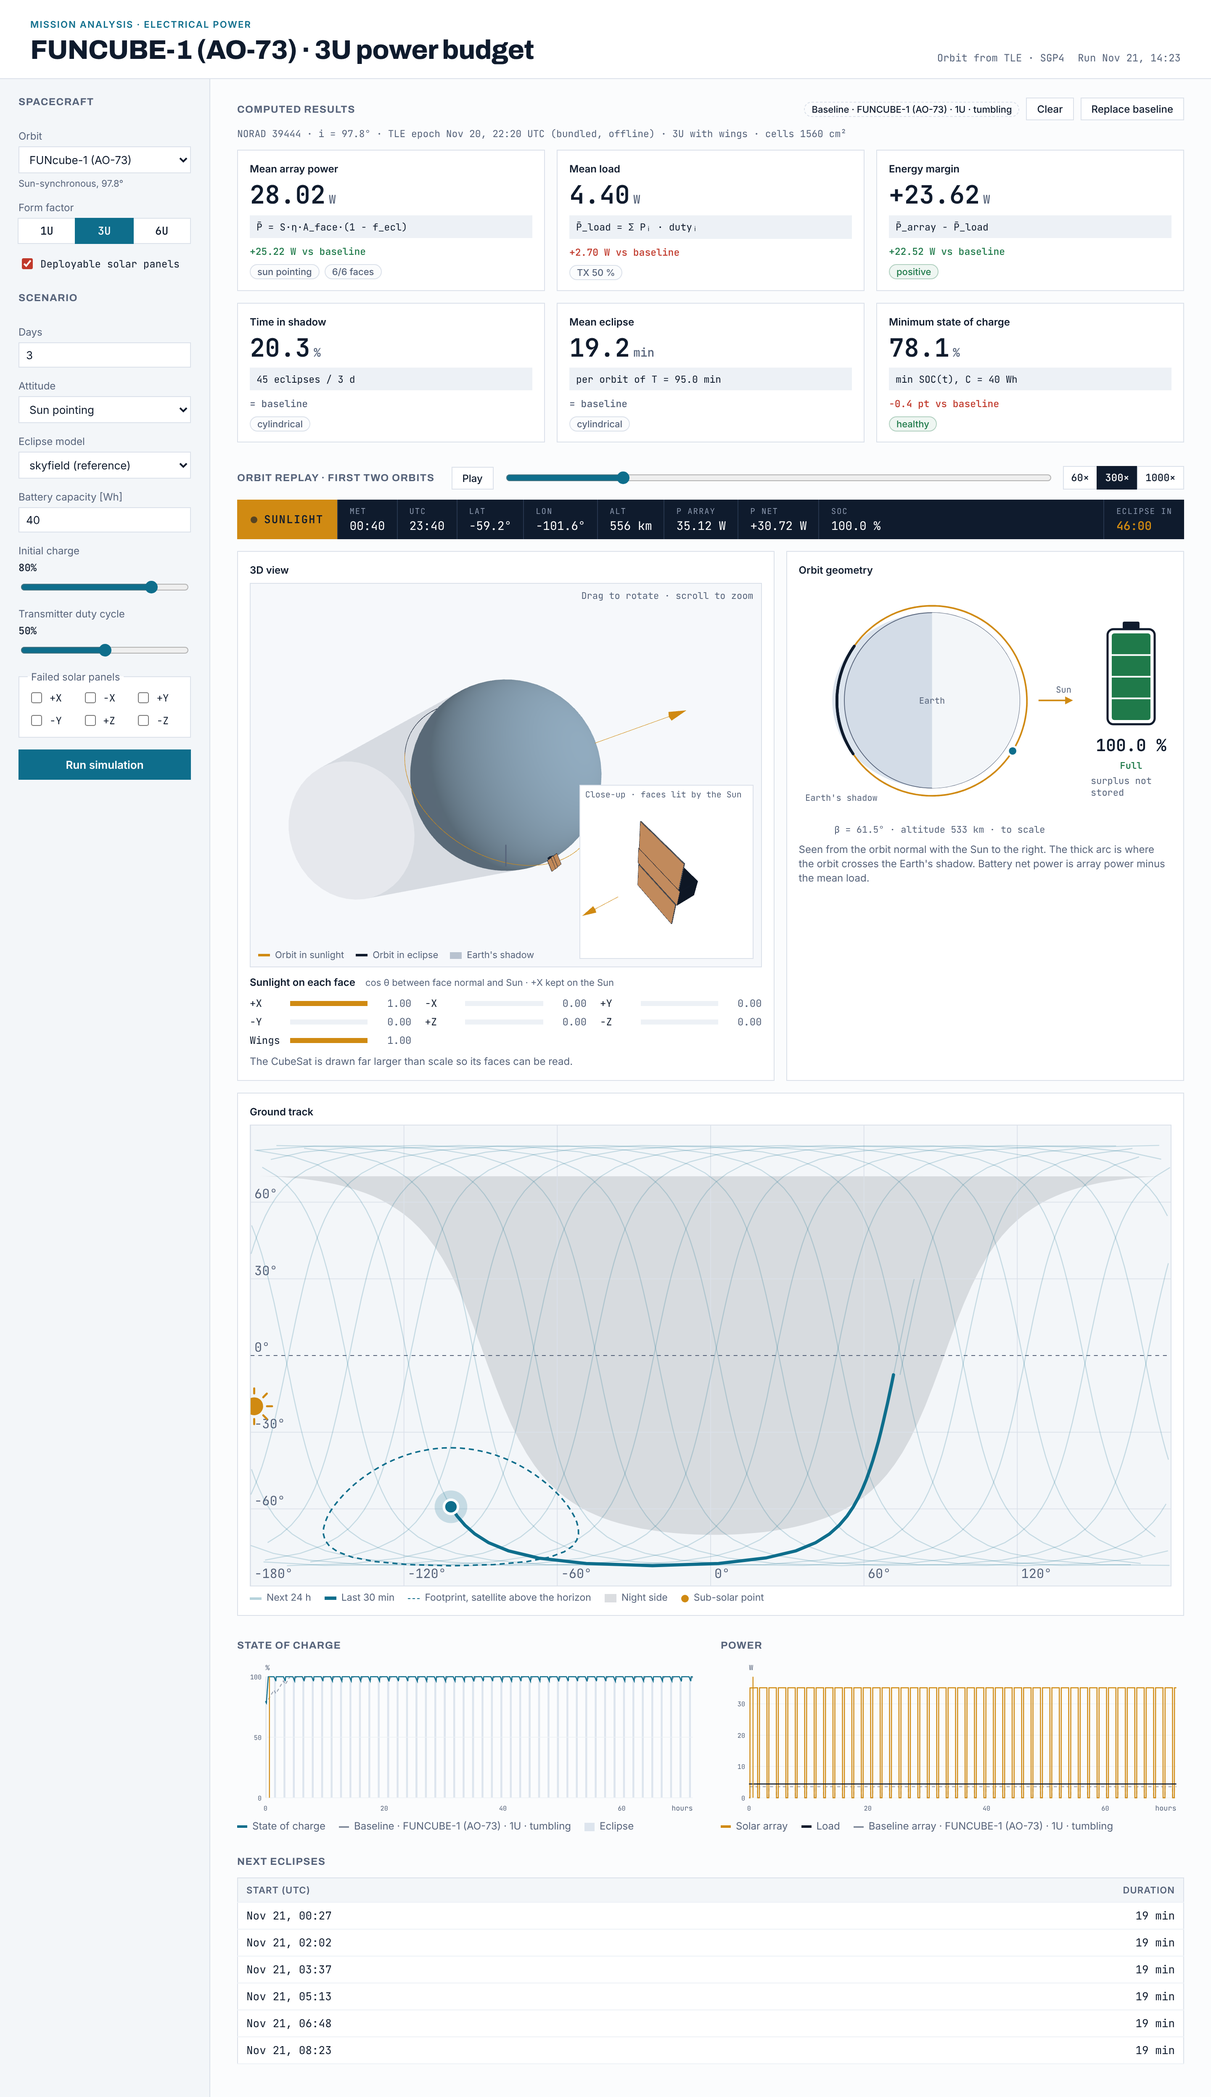
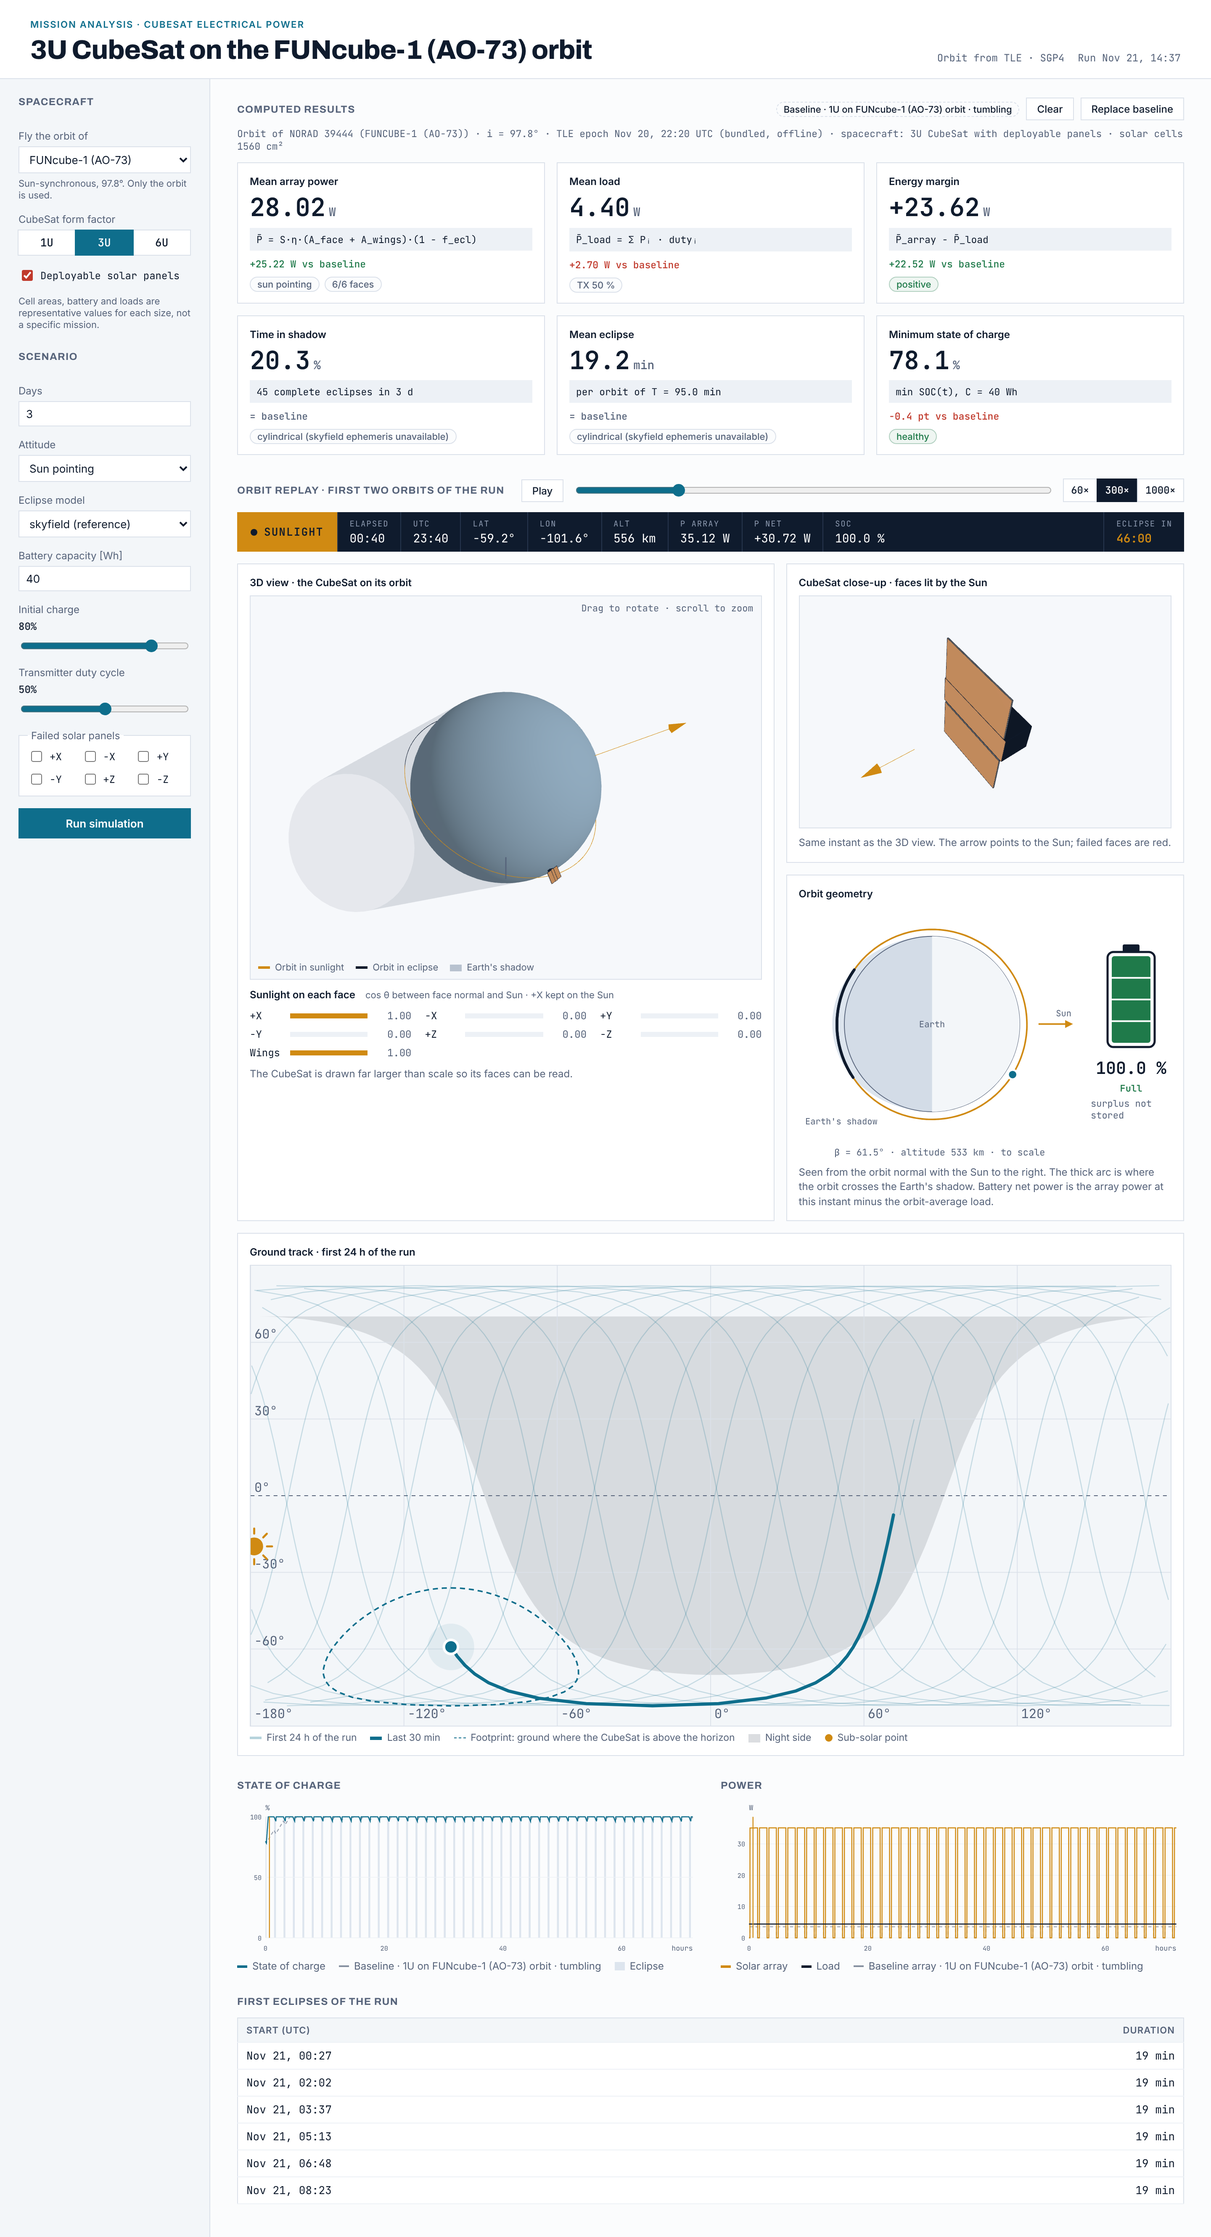
Clarify labels and give the CubeSat close-up its own panel (#4)
- Title and labels say what is simulated: a CubeSat flying another object's orbit
- Orbit selector reads 'Fly the orbit of'; custom NORAD hint says only the orbit is used
- Form factors marked as representative values
- 'Elapsed' instead of MET (time since run start, not launch)
- Eclipse model chip shows the cylindrical fallback when skyfield is unavailable
- Power formula includes deployable panels; 'complete eclipses' wording
- Close-up of the lit faces moved from the 3D inset to its own panel above orbit geometry

Claude-Session: https://claude.ai/code/session_017xRGYicgZqfD2FuY3kmVif

diff --git a/web/src/app/app.html b/web/src/app/app.html
@@ -1,7 +1,7 @@
 <header class="top">
   <div>
-    <p class="eyebrow">Mission analysis · electrical power</p>
-    <h1>{{ result()?.summary?.satellite || 'FUNCUBE-1 (AO-73)' }} · {{ ran()?.form_factor || '1U' }} power budget</h1>
+    <p class="eyebrow">Mission analysis · CubeSat electrical power</p>
+    <h1>{{ title() }}</h1>
   </div>
   <p class="meta">
     <span>Orbit from TLE · SGP4</span>
@@ -13,7 +13,7 @@
   <form class="side" (ngSubmit)="run()">
     <h2>Spacecraft</h2>
 
-    <label for="orbit">Orbit
+    <label for="orbit">Fly the orbit of
       <select id="orbit" name="orbit" [ngModel]="orbitMode() === 'custom' ? 'custom' : '' + request.norad"
               (ngModelChange)="setOrbit($event)">
         @for (s of catalog()?.satellites ?? [{ norad: 39444, name: 'FUNcube-1 (AO-73)', orbit: '' }]; track s.norad) {
@@ -23,19 +23,19 @@
       </select>
       @if (orbitMode() === 'preset') {
         @for (s of catalog()?.satellites ?? []; track s.norad) {
-          @if (s.norad === request.norad) { <span class="hint">{{ s.orbit }}</span> }
+          @if (s.norad === request.norad) { <span class="hint">{{ s.orbit }}. Only the orbit is used.</span> }
         }
       }
     </label>
     @if (orbitMode() === 'custom') {
       <label for="norad">NORAD catalog number
         <input id="norad" type="number" name="norad" min="1" max="999999" [(ngModel)]="request.norad" />
-        <span class="hint">The TLE is downloaded from CelesTrak.</span>
+        <span class="hint">Only this object's orbit (TLE from CelesTrak) is used; the spacecraft is still the CubeSat below.</span>
       </label>
     }
 
     <div class="field">
-      <span class="lbl">Form factor</span>
+      <span class="lbl">CubeSat form factor</span>
       <div class="seg" role="group" aria-label="Form factor">
         @for (ff of formFactors; track ff) {
           <button type="button" [attr.aria-pressed]="request.form_factor === ff" (click)="setFormFactor(ff)">{{ ff }}</button>
@@ -46,6 +46,7 @@
       <input id="deploy" type="checkbox" name="deploy" [(ngModel)]="request.deployables" />
       Deployable solar panels
     </label>
+    <span class="hint">Cell areas, battery and loads are representative values for each size, not a specific mission.</span>
 
     <h2 class="sub">Scenario</h2>
 
@@ -106,9 +107,9 @@
         </div>
         @if (r.spacecraft; as sc) {
           <p class="sc-line">
-            NORAD {{ sc.norad }} · i = {{ sc.inclination_deg.toFixed(1) }}° · TLE epoch {{ sc.tle_epoch | date: 'MMM d, HH:mm' : 'UTC' }} UTC
+            Orbit of NORAD {{ sc.norad }} ({{ r.summary.satellite }}) · i = {{ sc.inclination_deg.toFixed(1) }}° · TLE epoch {{ sc.tle_epoch | date: 'MMM d, HH:mm' : 'UTC' }} UTC
             ({{ sc.tle_source === 'celestrak' ? 'downloaded from CelesTrak' : sc.tle_source === 'cache' ? 'cached' : 'bundled, offline' }})
-            · {{ sc.form_factor }}{{ sc.deployables ? ' with wings' : '' }} · cells {{ (sc.cell_area_m2 * 1e4).toFixed(0) }} cm²
+            · spacecraft: {{ sc.form_factor }} CubeSat{{ sc.deployables ? ' with deployable panels' : '' }} · solar cells {{ (sc.cell_area_m2 * 1e4).toFixed(0) }} cm²
           </p>
         }
         <div class="cards">
@@ -132,7 +133,7 @@
 
       <section>
         <div class="replay-head">
-          <h2>Orbit replay · first two orbits</h2>
+          <h2>Orbit replay · first two orbits of the run</h2>
           @if (now(); as n) {
             <div class="player">
               <button type="button" class="ghost" (click)="playback.playing.set(!playback.playing())">
@@ -153,7 +154,7 @@
           <div class="telemetry" [class.ecl]="!n.lit" aria-live="off">
             <div class="mode"><span class="dot"></span>{{ n.lit ? 'SUNLIGHT' : 'ECLIPSE' }}</div>
             <dl>
-              <div><dt>MET</dt><dd>{{ n.met }}</dd></div>
+              <div><dt>Elapsed</dt><dd>{{ n.elapsed }}</dd></div>
               <div><dt>UTC</dt><dd>{{ n.utc }}</dd></div>
               <div><dt>Lat</dt><dd>{{ n.lat.toFixed(1) }}°</dd></div>
               <div><dt>Lon</dt><dd>{{ n.lon.toFixed(1) }}°</dd></div>
@@ -168,25 +169,32 @@
 
         <div class="replay">
           <div class="pane">
-            <h3>3D view</h3>
-            <app-orbit-view [result]="r" [failedFaces]="ran()?.failed_faces ?? []" [attitude]="ran()?.attitude ?? 'tumbling'" />
+            <h3>3D view · the CubeSat on its orbit</h3>
+            <app-orbit-view [closeupCanvas]="closeup" [result]="r" [failedFaces]="ran()?.failed_faces ?? []" [attitude]="ran()?.attitude ?? 'tumbling'" />
             <p class="cap">The CubeSat is drawn far larger than scale so its faces can be read.</p>
           </div>
-          <div class="pane">
-            <h3>Orbit geometry</h3>
-            <div class="geo">
-              <app-orbit-plane [result]="r" />
-              @if (now(); as n) {
-                <app-battery-gauge [soc]="n.soc" [net]="n.net" />
-              }
+          <div class="col">
+            <div class="pane">
+              <h3>CubeSat close-up · faces lit by the Sun</h3>
+              <canvas #closeup class="closeup" aria-label="Close-up of the CubeSat; faces facing the Sun glow"></canvas>
+              <p class="cap">Same instant as the 3D view. The arrow points to the Sun; failed faces are red.</p>
             </div>
-            <p class="cap">
-              Seen from the orbit normal with the Sun to the right. The thick arc is where the orbit crosses the
-              Earth's shadow. Battery net power is array power minus the mean load.
-            </p>
+            <div class="pane">
+              <h3>Orbit geometry</h3>
+              <div class="geo">
+                <app-orbit-plane [result]="r" />
+                @if (now(); as n) {
+                  <app-battery-gauge [soc]="n.soc" [net]="n.net" />
+                }
+              </div>
+              <p class="cap">
+                Seen from the orbit normal with the Sun to the right. The thick arc is where the orbit crosses the
+                Earth's shadow. Battery net power is the array power at this instant minus the orbit-average load.
+              </p>
+            </div>
           </div>
           <div class="pane wide">
-            <h3>Ground track</h3>
+            <h3>Ground track · first 24 h of the run</h3>
             <app-ground-track [lat]="r.ground_track.lat" [lon]="r.ground_track.lon" [live]="live()" />
           </div>
         </div>
@@ -204,7 +212,7 @@
       </section>
 
       <section>
-        <h2>Next eclipses</h2>
+        <h2>First eclipses of the run</h2>
         <table>
           <thead><tr><th>Start (UTC)</th><th class="num">Duration</th></tr></thead>
           <tbody>

diff --git a/web/src/app/orbit-view.ts b/web/src/app/orbit-view.ts
@@ -44,11 +44,10 @@ function cssColor(name: string, fallback: string): THREE.Color {
         <span><i class="cyl"></i>Earth's shadow</span>
       </div>
       <span class="hint-3d">Drag to rotate · scroll to zoom</span>
-      <div class="inset-frame" aria-hidden="true"><span>Close-up · faces lit by the Sun</span></div>
     </div>
     <div class="faces-head">
       <h3>Sunlight on each face</h3>
-      <span>cos θ between face normal and Sun · {{ attitude() === 'sun_pointing' ? '+X kept on the Sun' : 'tumbling, illustrative attitude' }}</span>
+      <span>cos θ between face normal and Sun · {{ attitude() === 'sun_pointing' ? '+X kept on the Sun' : 'tumbling: this rotation is illustrative, the power model uses the average (A/4)' }}</span>
     </div>
     <ul class="faces">
       @for (f of faceRows(); track f.face) {
@@ -77,8 +76,6 @@ function cssColor(name: string, fallback: string): THREE.Color {
     .legend .shade { background: var(--text); }
     .legend .cyl { background: var(--shade-3d); height: 8px; }
     .hint-3d { position: absolute; right: 10px; top: 8px; font: 11px var(--f-data); color: var(--muted); }
-    .inset-frame { position: absolute; right: 10px; bottom: 10px; width: 34%; aspect-ratio: 1; border: 1px solid var(--border); pointer-events: none; }
-    .inset-frame span { position: absolute; left: 6px; top: 4px; font: 10px var(--f-data); color: var(--muted); }
     .faces-head { display: flex; flex-wrap: wrap; gap: 2px 12px; align-items: baseline; }
     h3 { margin: 0; font-size: 12px; font-weight: 600; }
     .faces-head span { font-size: 11px; color: var(--muted); }
@@ -95,6 +92,8 @@ export class OrbitView implements AfterViewInit, OnDestroy {
   readonly result = input.required<SimulationResult>();
   readonly failedFaces = input<Face[]>([]);
   readonly attitude = input<'tumbling' | 'sun_pointing'>('tumbling');
+  /** Canvas elsewhere on the page where the close-up of the CubeSat is drawn. */
+  readonly closeupCanvas = input<HTMLCanvasElement | null>(null);
 
   private readonly canvas = viewChild.required<ElementRef<HTMLCanvasElement>>('canvas');
 
@@ -150,7 +149,8 @@ export class OrbitView implements AfterViewInit, OnDestroy {
   private readonly cubeMaterials = FACES.map(() => new THREE.MeshStandardMaterial({ roughness: 0.6 }));
   private readonly wingMaterial = new THREE.MeshStandardMaterial({ roughness: 0.5 });
 
-  // Close-up inset: the same spacecraft in its own scene, camera fixed near the Sun line.
+  // Close-up: the same spacecraft in its own scene and renderer, camera fixed near the Sun line.
+  private closeRenderer?: THREE.WebGLRenderer;
   private readonly insetScene = new THREE.Scene();
   private readonly insetCamera = new THREE.PerspectiveCamera(32, 1, 0.01, 20);
   private readonly insetSat = new THREE.Group();
@@ -209,6 +209,7 @@ export class OrbitView implements AfterViewInit, OnDestroy {
     window.removeEventListener('resize', this.resize);
     this.controls?.dispose();
     this.renderer?.dispose();
+    this.closeRenderer?.dispose();
   }
 
   private readonly resize = () => {
@@ -224,20 +225,21 @@ export class OrbitView implements AfterViewInit, OnDestroy {
     this.controls?.update();
     const r = this.renderer;
     if (!r) return;
-    const c = this.canvas().nativeElement;
-    r.setViewport(0, 0, c.clientWidth, c.clientHeight);
     r.render(this.scene, this.camera);
 
-    // Inset in the bottom-right corner (viewport origin is bottom-left).
-    const size = Math.round(c.clientWidth * 0.34);
-    r.setScissorTest(true);
-    r.setScissor(c.clientWidth - size - 10, 10, size, size);
-    r.setViewport(c.clientWidth - size - 10, 10, size, size);
-    r.setClearColor(0xffffff, 1);
-    r.clear();
-    r.render(this.insetScene, this.insetCamera);
-    r.setScissorTest(false);
-    r.setClearColor(0x000000, 0);
+    const cc = this.closeupCanvas();
+    if (cc && !this.closeRenderer) {
+      this.closeRenderer = new THREE.WebGLRenderer({ canvas: cc, antialias: true, alpha: true });
+      this.closeRenderer.setPixelRatio(Math.min(window.devicePixelRatio, 2));
+    }
+    if (cc && this.closeRenderer) {
+      if (cc.width !== Math.round(cc.clientWidth * this.closeRenderer.getPixelRatio())) {
+        this.closeRenderer.setSize(cc.clientWidth, cc.clientHeight, false);
+        this.insetCamera.aspect = cc.clientWidth / cc.clientHeight;
+        this.insetCamera.updateProjectionMatrix();
+      }
+      this.closeRenderer.render(this.insetScene, this.insetCamera);
+    }
   };
 
   /** Sun light, shadow cylinder and orbit line: they depend on the result only. */
@@ -254,7 +256,7 @@ export class OrbitView implements AfterViewInit, OnDestroy {
     const camDir = sun.clone().multiplyScalar(Math.cos(55 * Math.PI / 180))
       .add(perp.multiplyScalar(Math.sin(55 * Math.PI / 180)))
       .add(new THREE.Vector3(0, 0.35, 0)).normalize();
-    this.insetCamera.position.copy(camDir.multiplyScalar(4.6));
+    this.insetCamera.position.copy(camDir.multiplyScalar(4.2));
     this.insetCamera.lookAt(0, 0, 0);
     this.insetSunArrow.clear();
     this.insetSunArrow.add(new THREE.ArrowHelper(sun, sun.clone().multiplyScalar(0.85), 0.55, cssColor('--sun', '#d08a12').getHex(), 0.18, 0.1));

diff --git a/web/src/app/app.ts b/web/src/app/app.ts
@@ -91,7 +91,9 @@ export class App {
     const cards: ResultCard[] = [
       {
         label: 'Mean array power', value: s.mean_power_w.toFixed(2), unit: 'W',
-        formula: q.attitude === 'tumbling' ? 'P̄ = S·η·(A/4)·(1 − f_ecl)' : 'P̄ = S·η·A_face·(1 − f_ecl)',
+        formula: q.attitude === 'tumbling'
+          ? `P̄ = S·η·(A${q.deployables ? ' + A_wings' : ''})/4·(1 − f_ecl)`
+          : `P̄ = S·η·(A_face${q.deployables ? ' + A_wings' : ''})·(1 − f_ecl)`,
         chips: [{ text: q.attitude === 'tumbling' ? 'tumbling' : 'sun pointing' },
                 { text: `${working}/6 faces`, tone: working < 6 ? 'warn' : undefined }],
       },
@@ -107,13 +109,13 @@ export class App {
       },
       {
         label: 'Time in shadow', value: (s.shadow_fraction * 100).toFixed(1), unit: '%',
-        formula: `${s.eclipses} eclipses / ${s.days} d`,
-        chips: [{ text: s.eclipse_model }],
+        formula: `${s.eclipses} complete eclipses in ${s.days} d`,
+        chips: [{ text: this.modelNote() }],
       },
       {
         label: 'Mean eclipse', value: s.mean_eclipse_min.toFixed(1), unit: 'min',
         formula: T ? `per orbit of T = ${T.toFixed(1)} min` : 'complete eclipses only',
-        chips: [{ text: s.eclipse_model }],
+        chips: [{ text: this.modelNote() }],
       },
       {
         label: 'Minimum state of charge', value: (s.min_soc * 100).toFixed(1), unit: '%',
@@ -144,12 +146,37 @@ export class App {
     return b ? [{ label: `Baseline array · ${b.label}`, x: b.result.series.hours, values: b.result.series.power_w, color: 'var(--muted)' }] : [];
   });
 
+  /** Name of the orbit the CubeSat flies: the preset name, or the TLE name for a custom NORAD number. */
+  readonly orbitName = computed(() => {
+    const r = this.result();
+    if (!r) return 'FUNcube-1 (AO-73)';
+    const norad = r.spacecraft?.norad;
+    return this.catalog()?.satellites.find((s) => s.norad === norad)?.name ?? r.summary.satellite;
+  });
+
+  /** Page title: what is simulated (a CubeSat) and whose orbit it flies. */
+  readonly title = computed(() => {
+    const q = this.ran();
+    const ff = q?.form_factor ?? '1U';
+    return `${ff} CubeSat on the ${this.orbitName()} orbit`;
+  });
+
+  /** The eclipse model actually used; skyfield falls back to cylindrical without its ephemeris file. */
+  readonly modelNote = computed(() => {
+    const r = this.result();
+    const q = this.ran();
+    if (!r || !q) return '';
+    return q.eclipse_model === 'skyfield' && r.summary.eclipse_model === 'cylindrical'
+      ? 'cylindrical (skyfield ephemeris unavailable)'
+      : r.summary.eclipse_model;
+  });
+
   /** Short description of the current run, used as the baseline label. */
   readonly runLabel = computed(() => {
     const r = this.result();
     const q = this.ran();
     if (!r || !q) return '';
-    const parts = [r.summary.satellite, q.form_factor + (q.deployables ? ' + wings' : ''), q.attitude === 'tumbling' ? 'tumbling' : 'sun pointing'];
+    const parts = [`${q.form_factor}${q.deployables ? ' + wings' : ''} on ${this.orbitName()} orbit`, q.attitude === 'tumbling' ? 'tumbling' : 'sun pointing'];
     if (q.failed_faces.length) parts.push(`${q.failed_faces.length} failed`);
     return parts.join(' · ');
   });
@@ -188,7 +215,7 @@ export class App {
     return {
       i,
       last: o.hours.length - 1,
-      met: `${String(Math.floor(h)).padStart(2, '0')}:${String(Math.floor((h % 1) * 60)).padStart(2, '0')}`,
+      elapsed: `${String(Math.floor(h)).padStart(2, '0')}:${String(Math.floor((h % 1) * 60)).padStart(2, '0')}`,
       utc: t.toISOString().slice(11, 16),
       lit: o.sunlit[i],
       soc: o.soc[i],

diff --git a/web/src/app/ground-track.ts b/web/src/app/ground-track.ts
@@ -60,9 +60,9 @@ const wrap = (lon: number) => ((((lon + 180) % 360) + 360) % 360) - 180;
       }
     </svg>
     <div class="legend">
-      <span><i class="l-track"></i>Next 24 h</span>
+      <span><i class="l-track"></i>First 24 h of the run</span>
       <span><i class="l-trail"></i>Last 30 min</span>
-      <span><i class="l-foot"></i>Footprint, satellite above the horizon</span>
+      <span><i class="l-foot"></i>Footprint: ground where the CubeSat is above the horizon</span>
       <span><i class="l-night"></i>Night side</span>
       <span><i class="l-sun"></i>Sub-solar point</span>
     </div>

diff --git a/web/src/app/app.css b/web/src/app/app.css
@@ -114,3 +114,6 @@ th { color: var(--muted); font: 600 11px var(--f-body); text-transform: uppercas
 .delta { font: 500 11.5px var(--f-data); color: var(--muted); }
 .delta.good { color: var(--good); }
 .delta.bad { color: var(--danger); }
+
+.col { display: flex; flex-direction: column; gap: 14px; min-width: 0; }
+.closeup { width: 100%; aspect-ratio: 16 / 10; display: block; background: var(--canvas); border: 1px solid var(--border); }

diff --git a/README.md b/README.md
@@ -42,8 +42,9 @@ power and the battery charge at the selected time.
 
 The dashboard is built to compare scenarios, not to show a single case.
 
-- **Orbit**: pick a preset (FUNcube-1 in a sun-synchronous 97.8° orbit, the ISS orbit at 51.6°,
-  Hubble at 28.5°) or type any NORAD number. The TLE is downloaded from CelesTrak and cached for a
+- **Orbit**: fly the CubeSat on the orbit of a preset object (FUNcube-1, sun-synchronous at 97.8°;
+  the ISS, 51.6°; Hubble, 28.5°) or of any NORAD number. Only the orbit is borrowed: the simulated
+  spacecraft is always the CubeSat you configure. The TLE is downloaded from CelesTrak and cached for a
   day; the bundled FUNcube-1 TLE keeps the app working offline. The run starts at the TLE epoch,
   where SGP4 is most accurate.
 - **Form factor**: 1U, 3U or 6U body with optional deployable panels
